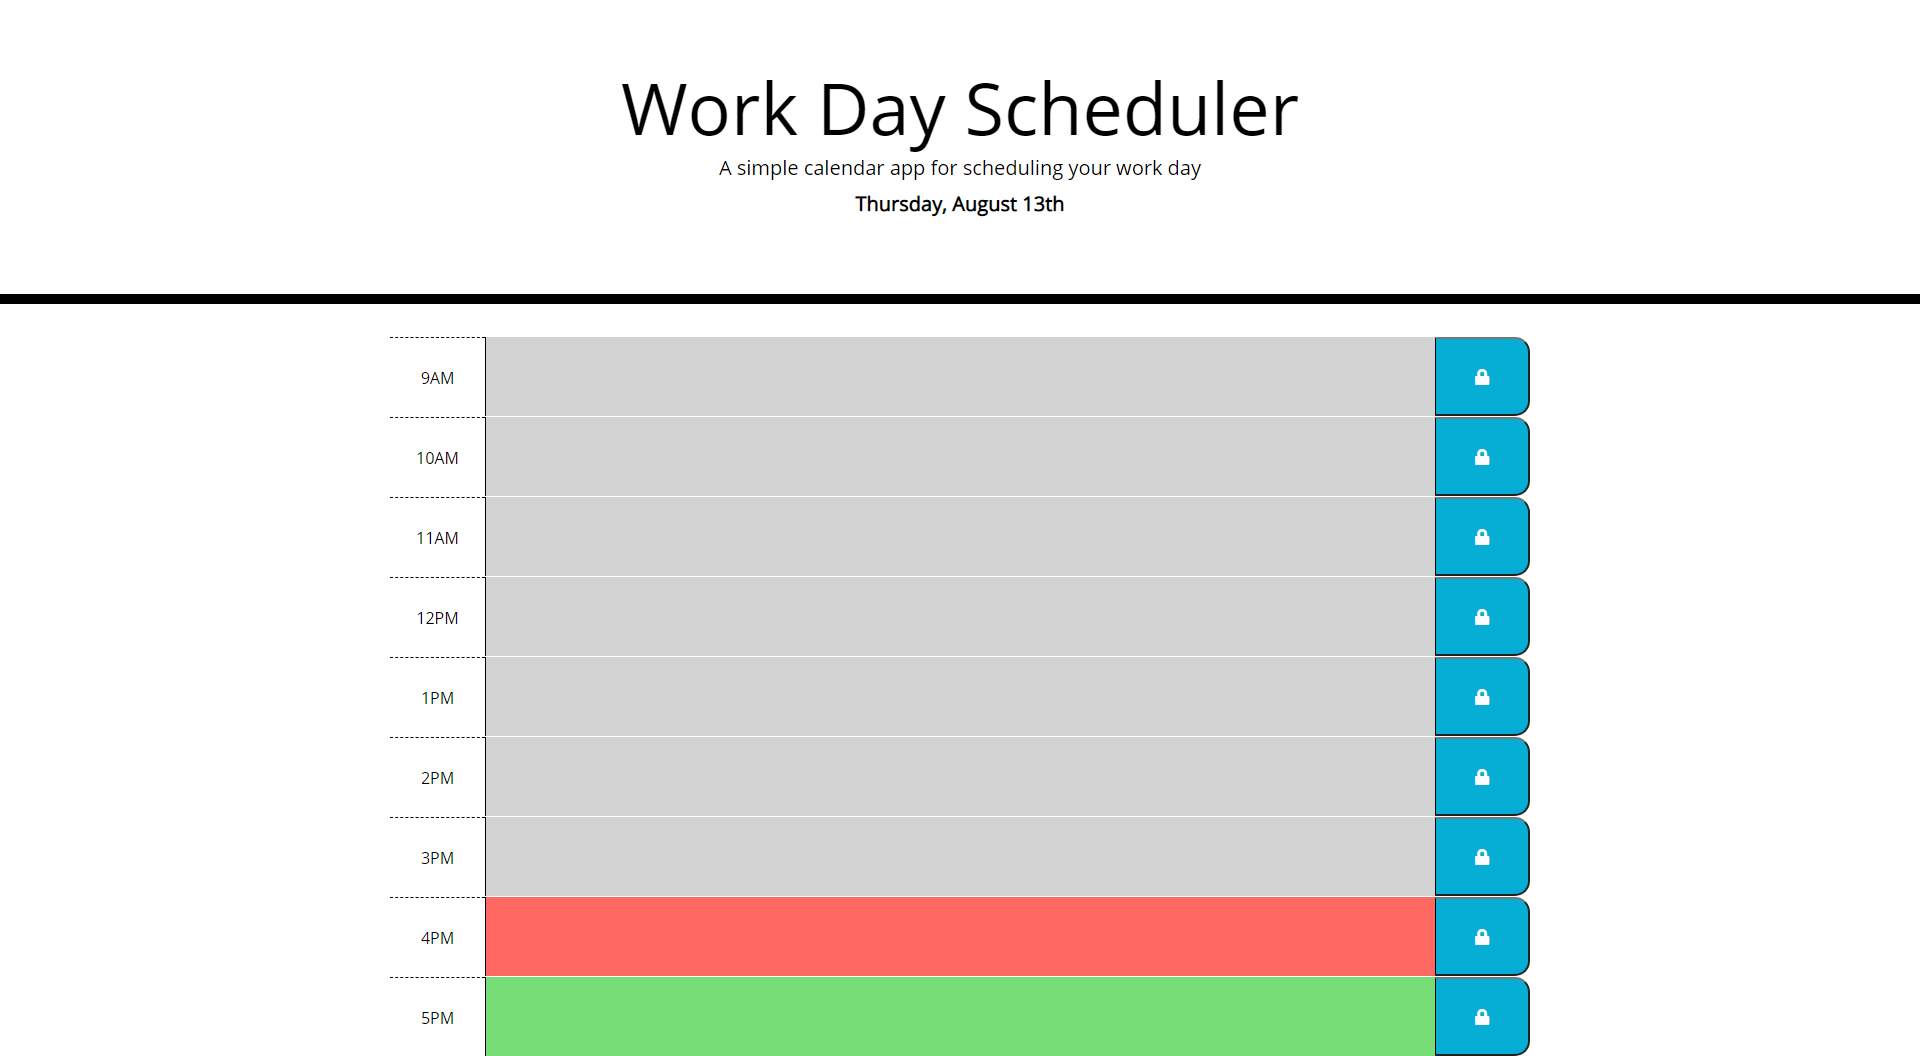
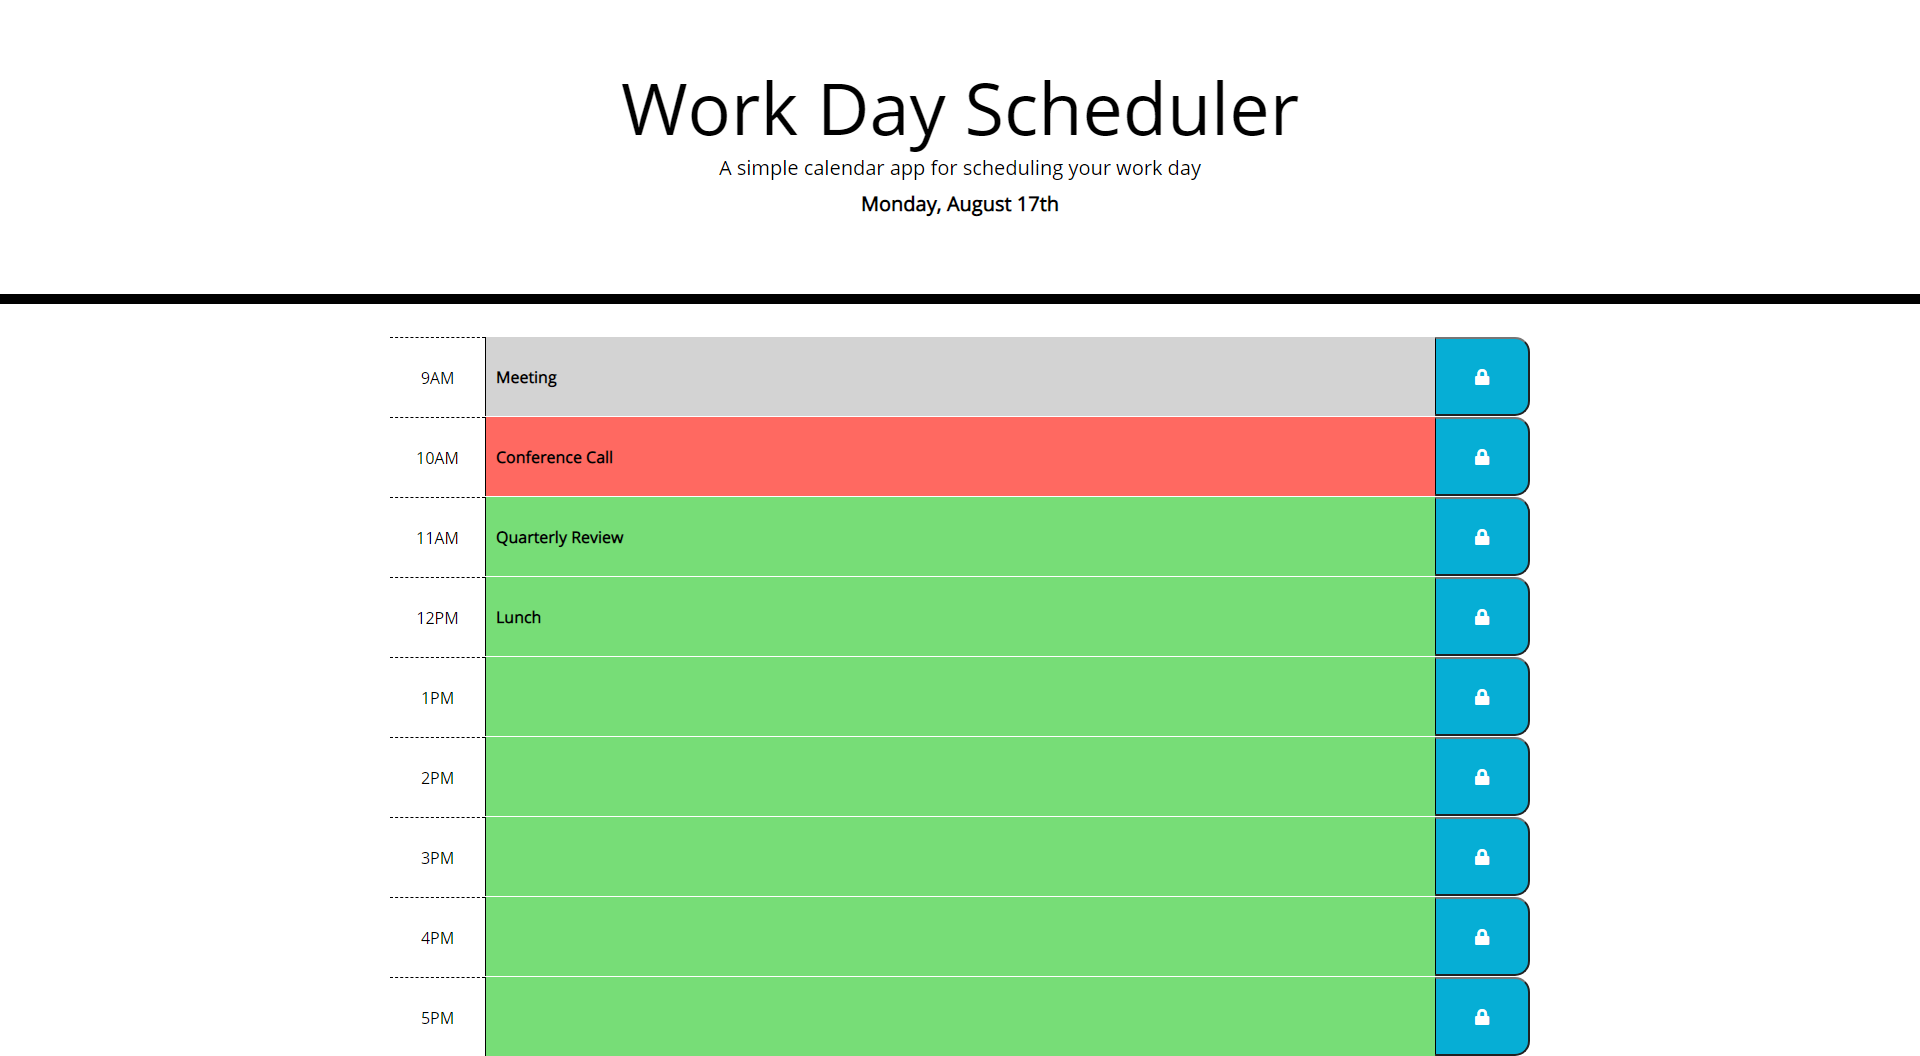
new screen shot

Changed region(s): [[0.25, 0.3438, 0.75, 0.9375], [0.4375, 0.1875, 0.5625, 0.2188]]

diff --git a/app.js b/app.js
@@ -13,7 +13,7 @@ $(document).ready(function () {
 
   // Grabs current time
   let currentTime = moment().hours();
-
+  
   // Checks if time-block is past, present, future
   $(".textarea").each(function (i) {
     if (currentTime === i + 9) {
@@ -32,7 +32,6 @@ $(document).ready(function () {
     for (let i = 9; i < 18; i++) {
       value = localStorage.getItem(i);
       $("#hour-" + i).val(value);
-      console.log(value);
     }
   }
 
